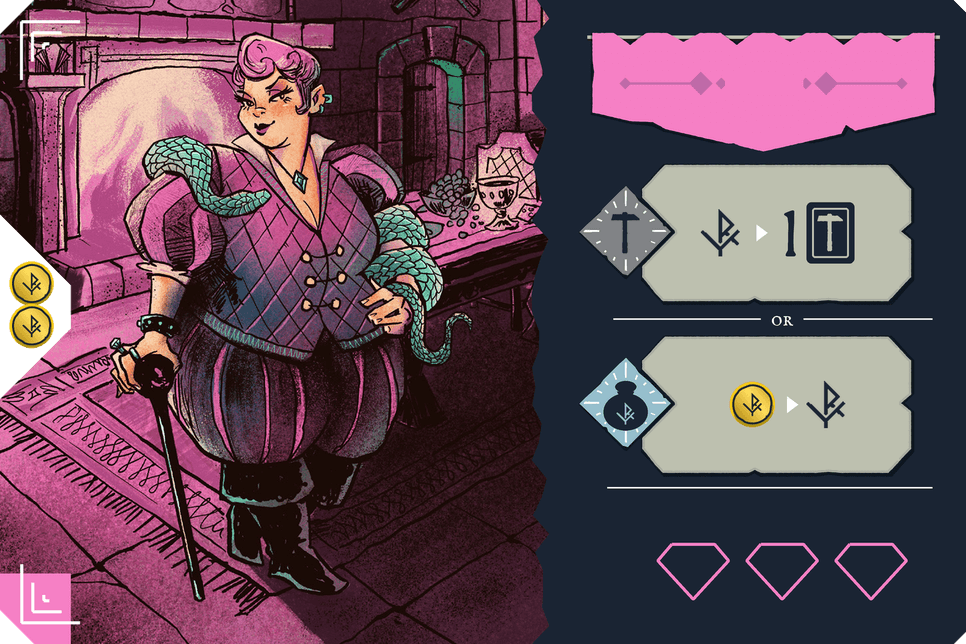
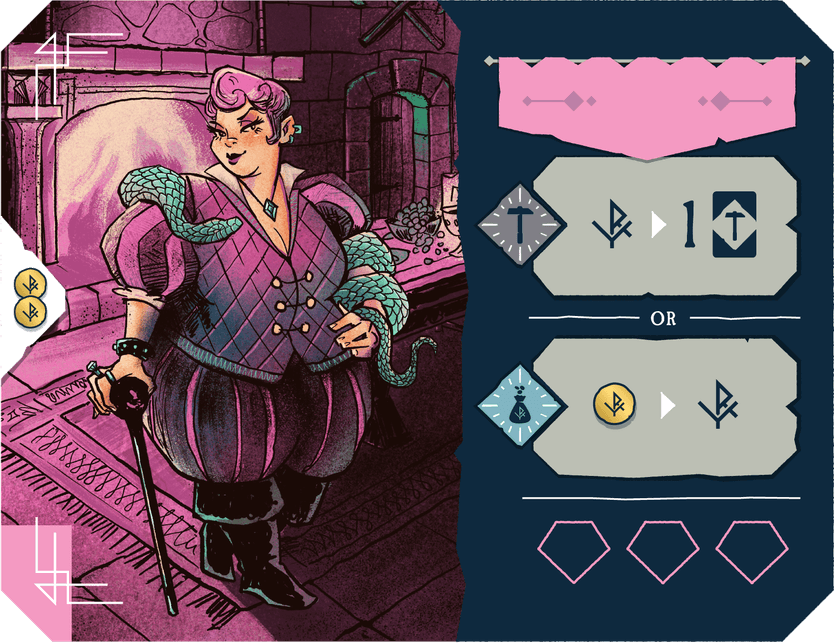
Rocky Ventures: updated player mats

diff --git a/games/rocky-ventures-ui/src/lib/components/MatGems.svelte b/games/rocky-ventures-ui/src/lib/components/MatGems.svelte
@@ -1,11 +1,11 @@
 <script lang="ts">
     import gemIcon from '$lib/images/icons/gem.png'
 
-    // Fills the player mat's printed gem spaces (measured on the 966x644 board image) with the
+    // Fills the player mat's printed gem spaces (measured on the 834x644 mat image) with the
     // player's current gems. The parent must be positioned and sized to the image.
     let { gems }: { gems: number } = $props()
 
-    const SlotLefts = [68.0, 77.2, 86.4]
+    const SlotLefts = [64.5, 75.1, 85.8]
 </script>
 
 {#each SlotLefts as left, index (index)}
@@ -14,7 +14,7 @@
             src={gemIcon}
             alt=""
             class="pointer-events-none absolute object-contain"
-            style="left: {left}%; top: 84.3%; width: 7.5%; height: 8.7%; padding: 0.6%;"
+            style="left: {left}%; top: 81.3%; width: 8.7%; height: 9.3%; padding: 0.7%;"
             draggable="false"
         />
     {/if}

diff --git a/games/rocky-ventures-ui/src/lib/components/TableauPanel.svelte b/games/rocky-ventures-ui/src/lib/components/TableauPanel.svelte
@@ -92,7 +92,7 @@
         {#each selectedPlayer.tableau as cardId, index (cardId)}
             {@const imageUrl = imageFor(cardId)}
             <div
-                class="relative shrink-0 {cardId === StartingPlayerCardId ? 'w-[350px]' : 'w-[150px]'}"
+                class="relative shrink-0 {cardId === StartingPlayerCardId ? 'w-[302px]' : 'w-[150px]'}"
                 style="margin-left: {index === 0 ? selectedPlayer.tuckedCardIds.length * TUCK_STRIP : 0}px;"
             >
                 {#if index === 0}
